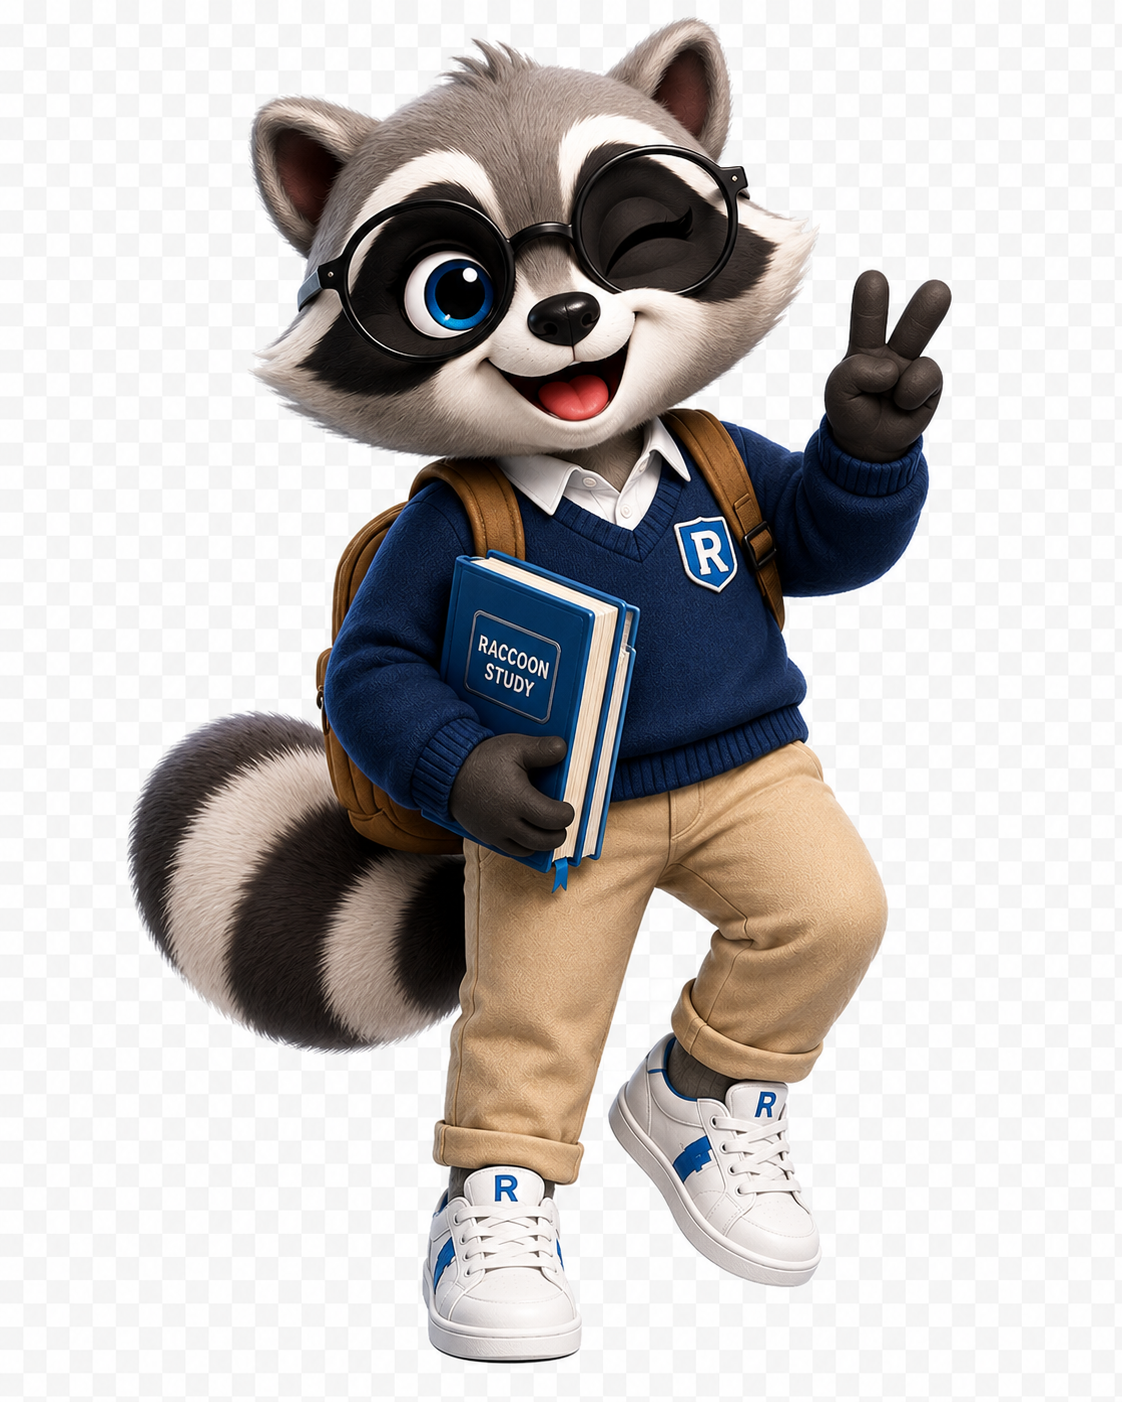
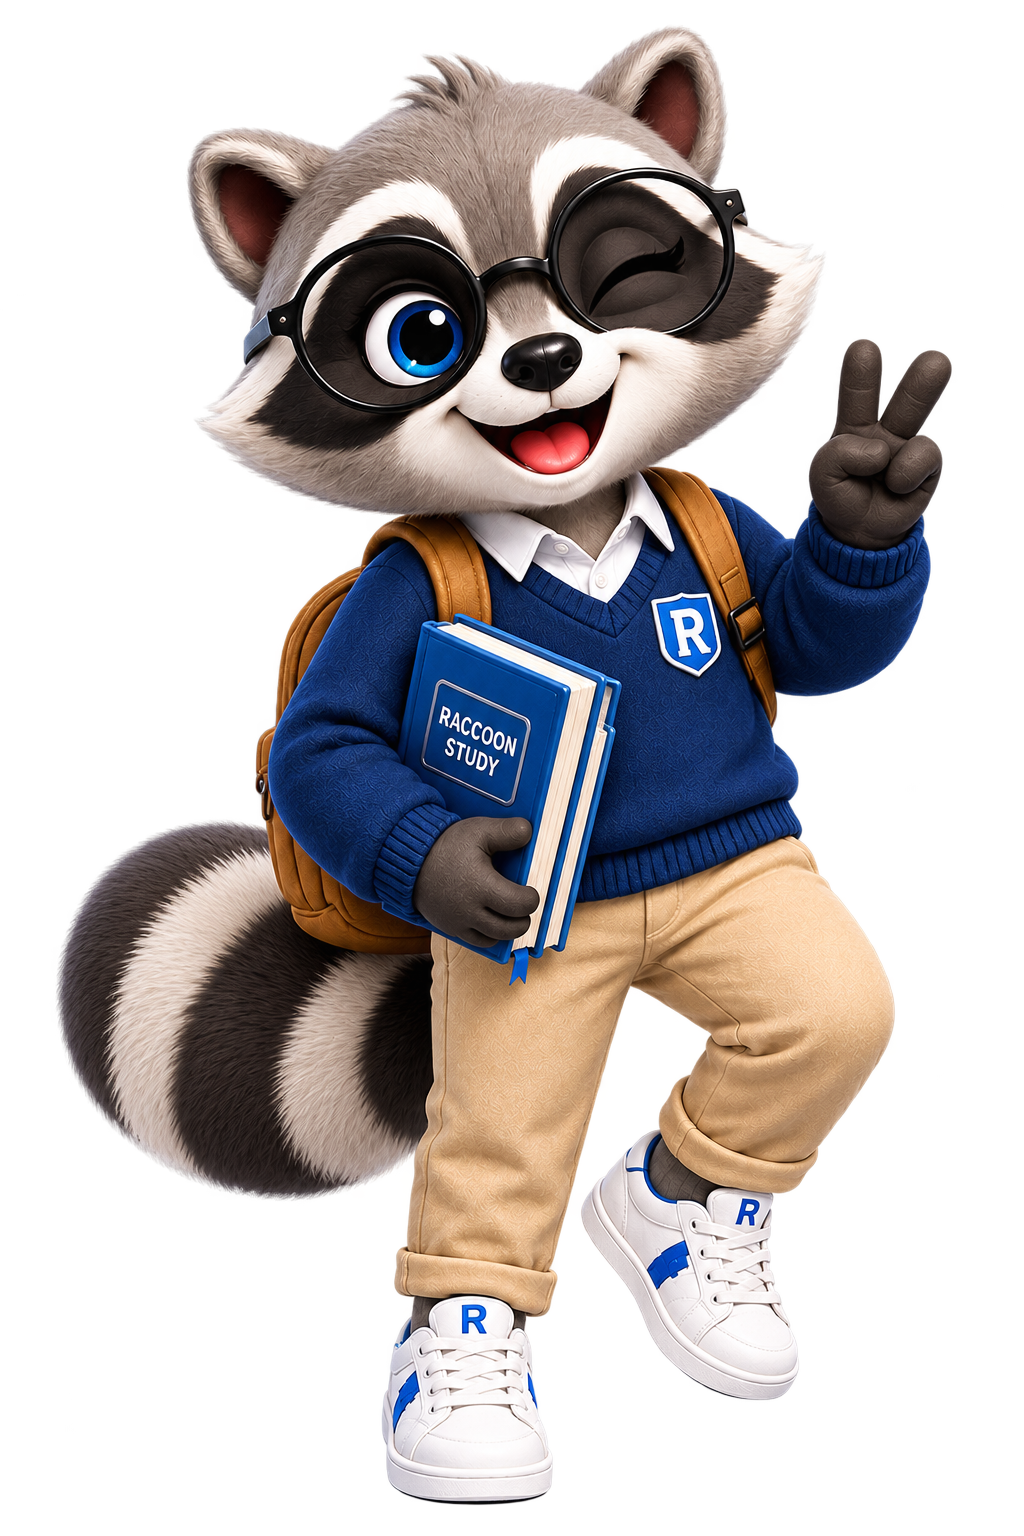
Version final de Raccoon Study

diff --git a/app/Chat/page.tsx b/app/Chat/page.tsx
@@ -1785,7 +1785,7 @@ export default function ChatPage() {
                 </div>
 
                 <Image
-                  src="/raccoon.png"
+                  src="/Riccie y Rocco.png"
                   alt="Raccoon IA"
                   width={100}
                   height={100}
@@ -1826,7 +1826,7 @@ export default function ChatPage() {
                         {!esUsuario && (
                           <div className="flex h-10 w-10 shrink-0 items-center justify-center overflow-hidden rounded-2xl bg-gradient-to-br from-[#55A8E8] to-[#7652D9] shadow-md">
                             <Image
-                              src="/raccoon.png"
+                              src="/Riccie y Rocco.png"
                               alt="Raccoon IA"
                               width={38}
                               height={38}
@@ -1989,7 +1989,7 @@ export default function ChatPage() {
                               className="h-full w-full object-cover"
                               onError={(evento) => {
                                 evento.currentTarget.src =
-                                  "/raccoon.png";
+                                  "/Riccie y Rocco.png";
                               }}
                             />
                           </div>
@@ -2005,7 +2005,7 @@ export default function ChatPage() {
                   <div className="flex items-end gap-3">
                     <div className="flex h-10 w-10 shrink-0 items-center justify-center overflow-hidden rounded-2xl bg-gradient-to-br from-[#55A8E8] to-[#7652D9]">
                       <Image
-                        src="/raccoon.png"
+                        src="/Riccie y Rocco.png"
                         alt="Raccoon IA"
                         width={38}
                         height={38}

diff --git a/app/Dashboard/page.tsx b/app/Dashboard/page.tsx
@@ -4014,10 +4014,10 @@ export default function Dashboard() {
                   </div>
 
                   <Image
-                    src="/raccoon.png"
+                    src="/Riccie y Rocco.png"
                     alt="Raccoon Study"
-                    width={180}
-                    height={180}
+                    width={240}
+                    height={240}
                     className="mx-auto w-[150px] object-contain sm:mx-0 sm:w-[180px]"
                   />
                 </div>
@@ -4455,7 +4455,7 @@ export default function Dashboard() {
 
                 <div className="mt-5 grid grid-cols-2 items-center gap-4 sm:flex sm:justify-between">
                   <Image
-                    src="/raccoon.png"
+                    src="/Riccie y Rocco.png"
                     alt="Nivel"
                     width={70}
                     height={70}
@@ -4824,10 +4824,10 @@ export default function Dashboard() {
 
                 <div className="relative mt-5 flex items-center justify-center">
                   <Image
-                    src="/raccoon.png"
+                    src="/Riccie y Rocco IA.png"
                     alt="Raccoon IA"
-                    width={120}
-                    height={120}
+                    width={200}
+                    height={200}
                     className="object-contain"
                   />
                 </div>

diff --git a/app/page.tsx b/app/page.tsx
@@ -647,7 +647,7 @@ export default function Home() {
             para elegir resúmenes guiados,
             cuestionarios interactivos, flashcards
             y planes adaptados a tu ritmo.
-            Además, cuentas con Roccoo, nuestro
+            Además, cuentas con Roccoo y Riccie, nuestro
             asistente inteligente, para acompañarte
             durante todo tu estudio.
           </p>
@@ -798,7 +798,7 @@ export default function Home() {
               icono={
                 <WandSparkles size={20} />
               }
-              titulo="Roccoo analiza"
+              titulo="Roccoo y Riccie analiza"
               texto="Entiende tu contenido"
             />
 
@@ -982,7 +982,7 @@ export default function Home() {
 
             <div>
               <p className="text-xs font-black">
-                Roccoo IA
+                Roccoo and Riccie IA
               </p>
 
               <p className="mt-1 text-[10px] text-[#7E8EA5]">
@@ -1212,7 +1212,7 @@ export default function Home() {
                 sm:text-base
               "
             >
-              Crea tu cuenta y deja que Roccoo transforme
+              Crea tu cuenta y deja que Roccoo o Riccie transformen
               tus materiales en una experiencia de estudio
               más rápida, organizada e interactiva.
             </p>

diff --git a/app/perfil/page.tsx b/app/perfil/page.tsx
@@ -200,14 +200,14 @@ const looksRocco: LookRaccoon[] = [
   {
     id: "azul-clasico",
     nombre: "Azul clásico",
-    imagen: "rocco/01-azul-clasico.png",
+    imagen: "rocco01-azul-clasico.png",
     desbloqueo: "free",
     nivelMinimo: 1,
   },
   {
     id: "deportivo",
     nombre: "Deportivo",
-    imagen: "rocco/02-deportivo.png",
+    imagen: "rocco02-deportivo.png",
     desbloqueo: "level",
     nivelMinimo: 2,
   },
@@ -221,7 +221,7 @@ const looksRocco: LookRaccoon[] = [
   {
     id: "urbano",
     nombre: "casual",
-    imagen: "04_mapache_camisa_cuadros.png",
+    imagen: "mapache_camisa_cuadros.png",
     desbloqueo: "level",
     nivelMinimo: 4,
   },
@@ -856,7 +856,7 @@ export default function PerfilScreen() {
     avatarRaccoon,
     setAvatarRaccoon,
   ] = useState(
-    "/vestuario/rocco/01-azul-clasico.png"
+    "rocco01-azul-clasico.png"
   );
 
   const [
@@ -1137,7 +1137,7 @@ export default function PerfilScreen() {
           ? metadata.raccoon_avatar
           : mascotaMetadata === "riccie"
             ? "/vestuario/riccie/01-rosa-casual.png"
-            : "/vestuario/rocco/01-azul-clasico.png";
+            : "rocco01-azul-clasico.png";
 
       setAvatarRaccoon(
         avatarRaccoonMetadata

diff --git a/app/api/resumenes/generar/route.ts b/app/api/resumenes/generar/route.ts
@@ -502,7 +502,7 @@ La versión gratuita debe ser suficiente para comprender lo básico, pero Premiu
         store: false,
 
         instructions: `
-Eres Rocco, tutor académico de Raccoon Study especializado en transformar materiales de estudio en resúmenes útiles.
+Eres Rocco y Riccie, tutor académico de Raccoon Study especializado en transformar materiales de estudio en resúmenes útiles.
 
 REGLAS DE FIDELIDAD:
 1. Analiza únicamente el contenido del documento proporcionado.

diff --git a/app/Login/page.tsx b/app/Login/page.tsx
@@ -1084,7 +1084,7 @@ export default function LoginPage() {
       >
         <div className="flex items-center gap-3">
           <Image
-            src="/raccoon.png"
+            src="/Riccie y Rocco.png"
             alt="Raccoon Study"
             width={46}
             height={46}
